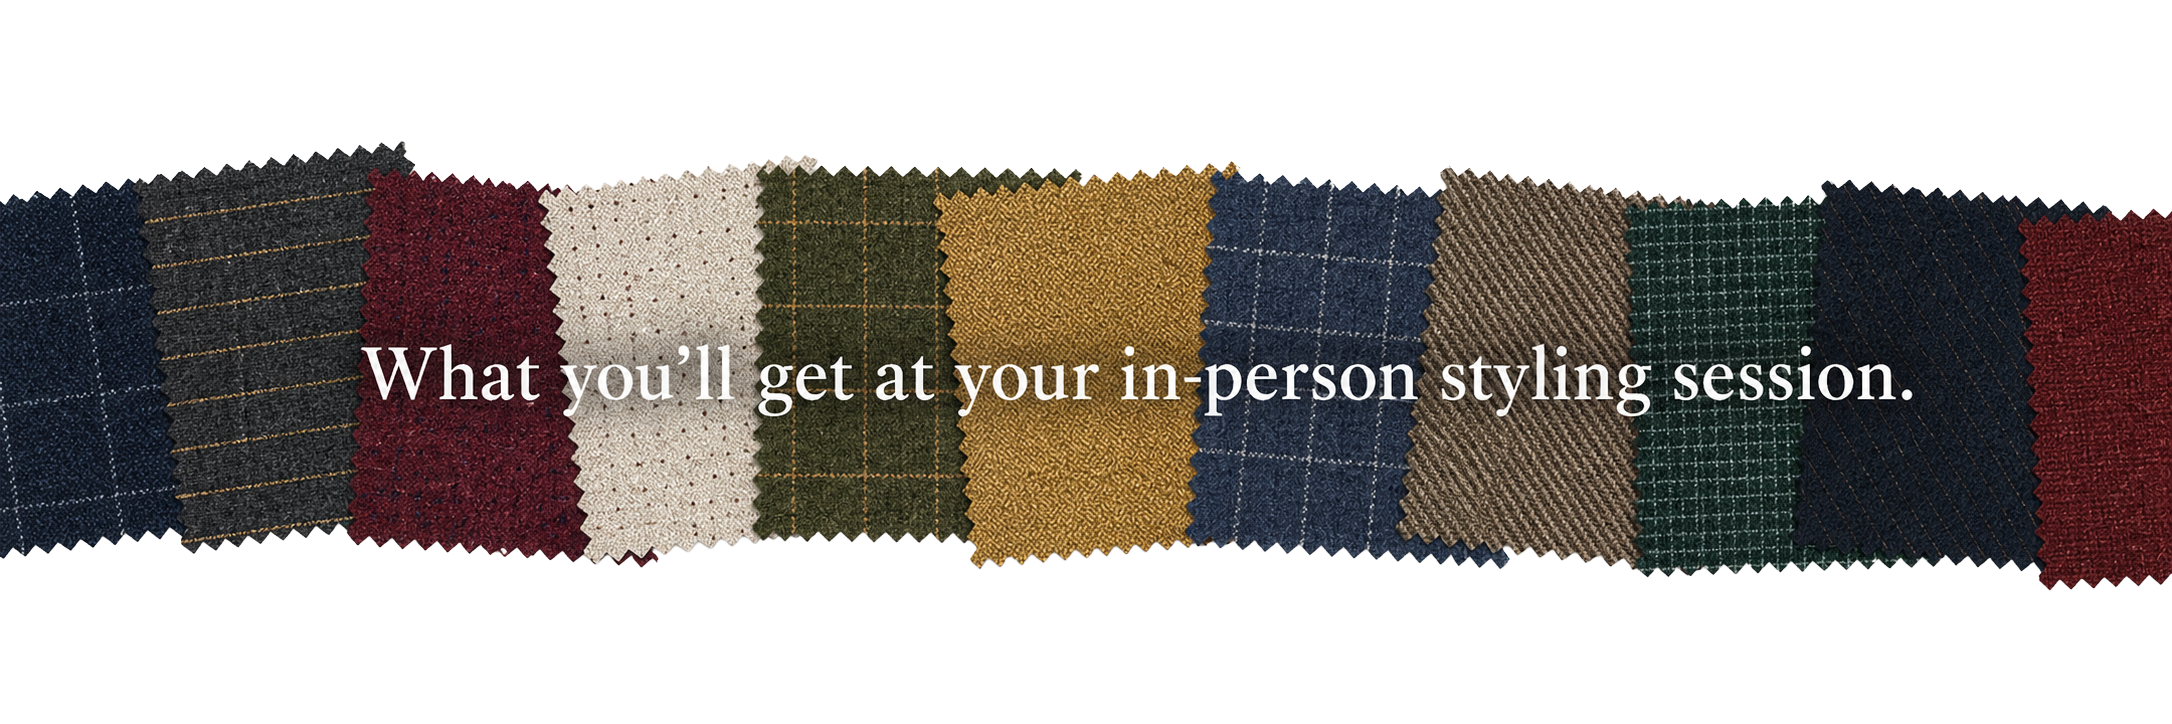
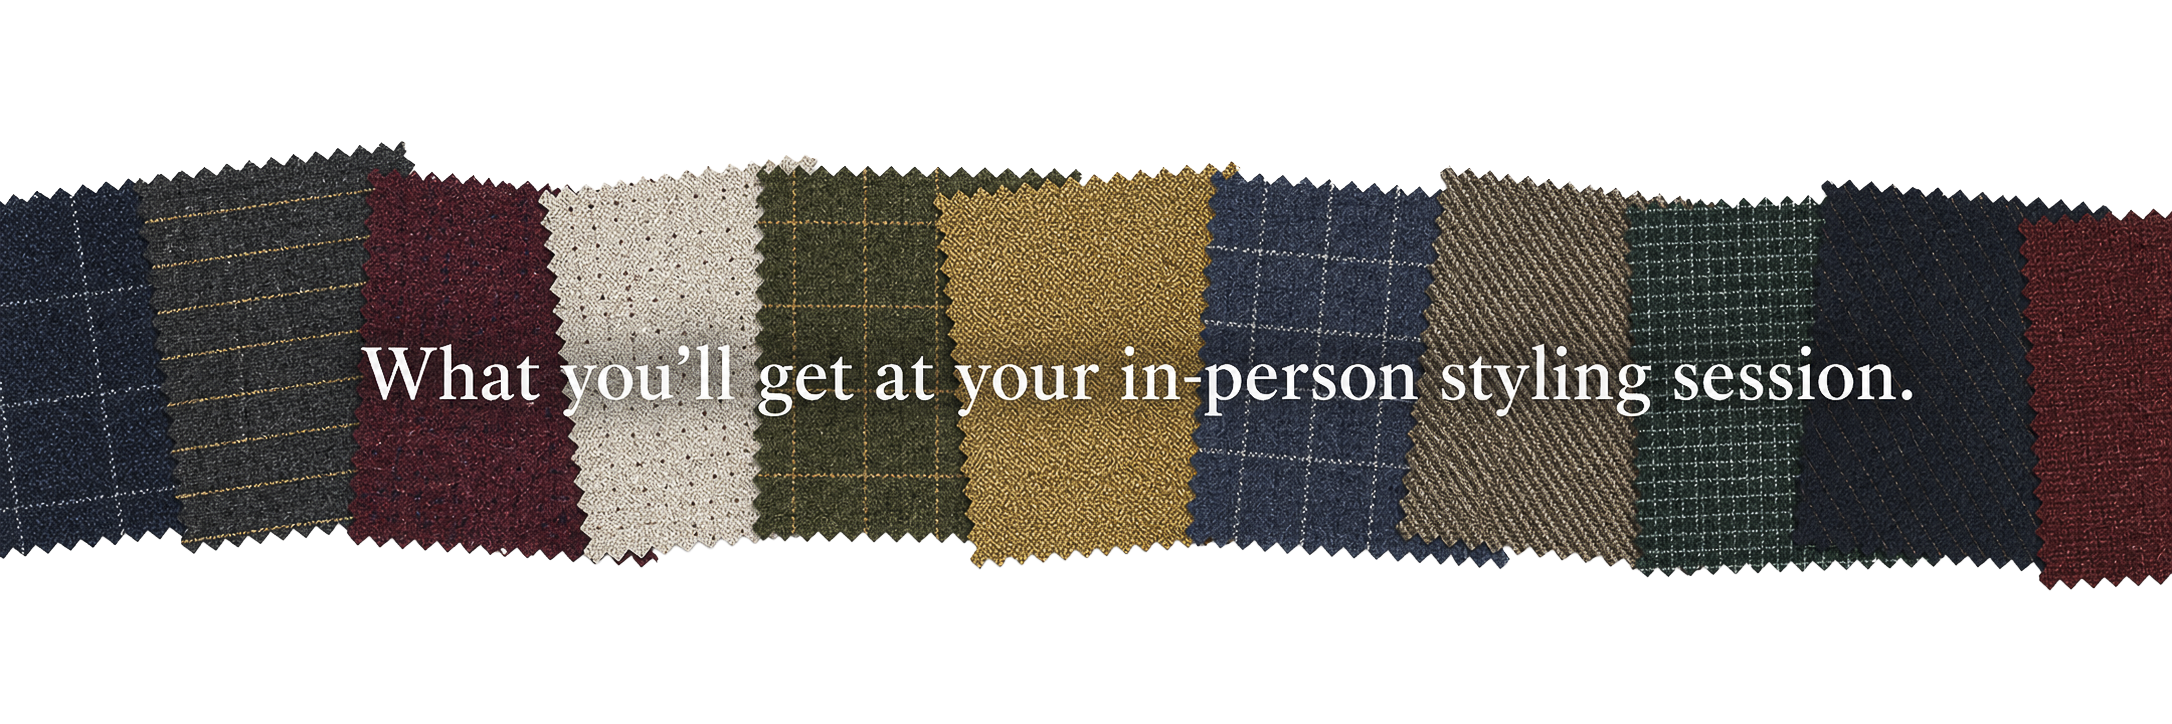
perf(images): swap in smaller wedding/suits/fabric photos, add CLS hints
- Replace image2forwedding-2.jpg → image2forwedding.jpg
- Replace image3forwedding.png → image3forwedding.jpg (PNG → JPG)
- Update fabric-swatches-banner.png, image1forwedding.jpg, and
  personal-style-sessions.jpg with smaller versions
- Add explicit width/height + decoding="async" on all five <img>
  tags across suits.html and weddings.html to prevent layout shift

Changed region(s): [[0.4319, 0.2431, 0.5552, 0.4254], [0.4627, 0.6077, 0.5244, 0.7597]]

diff --git a/weddings.html b/weddings.html
@@ -63,22 +63,22 @@
       <div class="section-header section-header--stitched reveal">
         <span class="eyebrow">Step 02</span>
         <h2 class="visually-hidden">What you'll get at your in-person styling session.</h2>
-        <img class="fabric-banner" src="/assets/img/fabric-swatches-banner.png" alt="Tailor's fabric swatches in deep blues, olives, burgundy, mustard, and cream — what you'll get at your in-person styling session." />
+        <img class="fabric-banner" src="/assets/img/fabric-swatches-banner.png" width="2172" height="724" alt="Tailor's fabric swatches in deep blues, olives, burgundy, mustard, and cream — what you'll get at your in-person styling session." decoding="async" loading="lazy" />
       </div>
       <div class="features-list reveal">
         <div class="feature-block">
           <h3>#1: Personal Wedding Style Session</h3>
-          <div class="feature-img"><img src="/assets/img/image1forwedding.jpg" alt="Personal wedding style session at GA Suit Warehouse" loading="lazy" /></div>
+          <div class="feature-img"><img src="/assets/img/image1forwedding.jpg" width="2048" height="1536" alt="Personal wedding style session at GA Suit Warehouse" loading="lazy" decoding="async" /></div>
           <p>Sit 1-on-1 with our fitting experts. We help you choose the <strong>fabric, color, and cut</strong> that matches your wedding, your photos, and your budget.</p>
         </div>
         <div class="feature-block">
           <h3>#2: The Right Fit</h3>
-          <div class="feature-img"><img src="/assets/img/image2forwedding-2.jpg" alt="Groom, groomsmen, and fathers fitted at GA Suit Warehouse" loading="lazy" /></div>
+          <div class="feature-img"><img src="/assets/img/image2forwedding.jpg" width="2048" height="1536" alt="Groom, groomsmen, and fathers fitted at GA Suit Warehouse" loading="lazy" decoding="async" /></div>
           <p>Find the perfect fit for the groom, groomsmen, fathers, and guests. Slim, modern, and classic options — all dialed in so everyone looks <strong>sharp and photo-ready</strong>.</p>
         </div>
         <div class="feature-block">
           <h3>#3: Walk Out Wedding Ready</h3>
-          <div class="feature-img"><img src="/assets/img/image3forwedding.png" alt="Wedding party walking out ready for the big day" loading="lazy" /></div>
+          <div class="feature-img"><img src="/assets/img/image3forwedding.jpg" width="2048" height="1536" alt="Wedding party walking out ready for the big day" loading="lazy" decoding="async" /></div>
           <p>No long waits. No confusing rental process. No last-minute stress. Walk out with the <strong>full wedding look</strong> ready for your big day.</p>
         </div>
       </div>

diff --git a/suits.html b/suits.html
@@ -63,12 +63,12 @@
       <div class="section-header section-header--stitched reveal">
         <span class="eyebrow">Step 02</span>
         <h2 class="visually-hidden">What you'll get at your in-person styling session.</h2>
-        <img class="fabric-banner" src="/assets/img/fabric-swatches-banner.png" alt="Tailor's fabric swatches in deep blues, olives, burgundy, mustard, and cream — what you'll get at your in-person styling session." />
+        <img class="fabric-banner" src="/assets/img/fabric-swatches-banner.png" width="2172" height="724" alt="Tailor's fabric swatches in deep blues, olives, burgundy, mustard, and cream — what you'll get at your in-person styling session." decoding="async" loading="lazy" />
       </div>
       <div class="features-list reveal">
         <div class="feature-block">
           <h3>#1: Personal Style Session</h3>
-          <div class="feature-img"><img src="/assets/img/personal-style-sessions.jpg" alt="Personal style session at GA Suit Warehouse" loading="lazy" /></div>
+          <div class="feature-img"><img src="/assets/img/personal-style-sessions.jpg" width="2048" height="1536" alt="Personal style session at GA Suit Warehouse" loading="lazy" decoding="async" /></div>
           <p>Sit 1-on-1 with our fitting experts. Get <strong>fabric, color, and cut</strong> matched to your body, your event, and your budget.</p>
         </div>
         <div class="feature-block">
